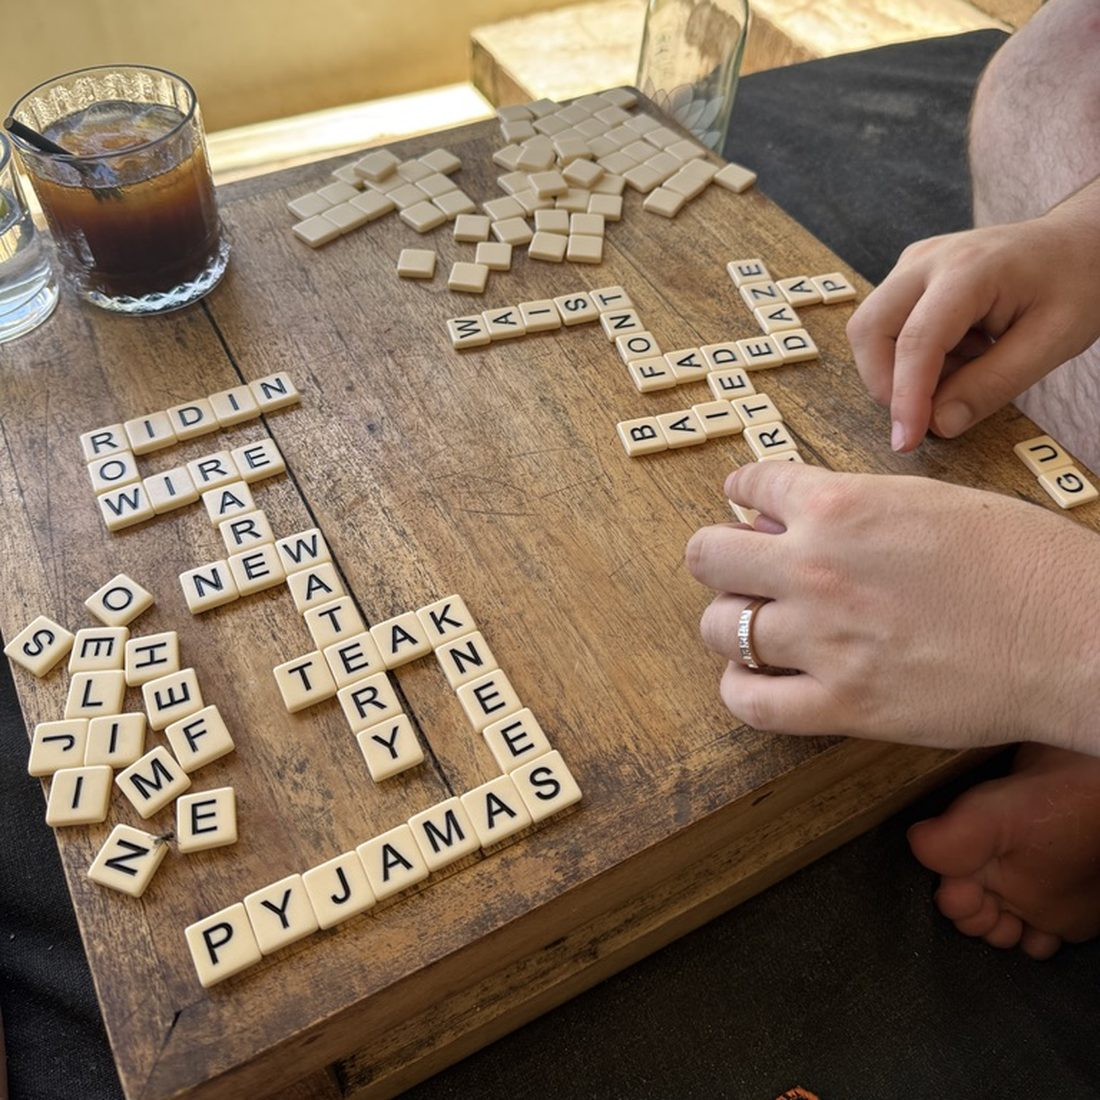
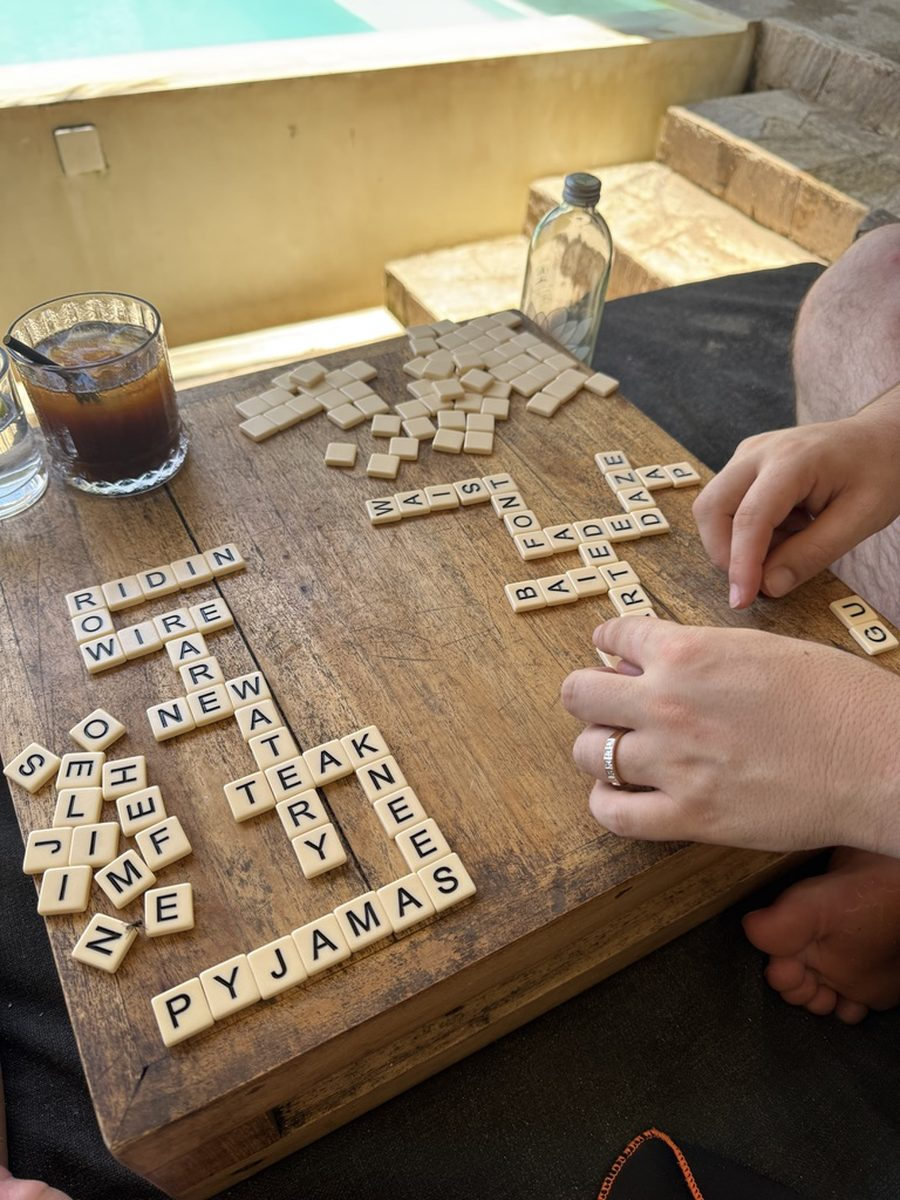
Portrait hover image, month-and-year dates
Hover image is 3:4 and the seven photos so far were re-cut from the
originals at 900x1200, so nothing is cropped to fit. Every phone shot
was already 3:4, so they're now full frame.

Dates drop the day numbers.

Claude-Session: https://claude.ai/code/session_01Nb4hzCfhTbzHu4iTGsTDTM

diff --git a/portfolio-repo/travel.html b/portfolio-repo/travel.html
@@ -156,8 +156,8 @@ body{background:var(--t-bg);color:var(--t-ink);font-family:var(--t-body);}
      in a narrow side panel. */
   display:none;
   position:fixed;top:0;left:0;z-index:60;
-  width:min(300px, 42vw);
-  aspect-ratio:1 / 1;
+  width:min(270px, 38vw);
+  aspect-ratio:3 / 4;
   max-width:100%;
   overflow:hidden;
   background:var(--t-bg);
@@ -243,187 +243,187 @@ body{background:var(--t-bg);color:var(--t-ink);font-family:var(--t-body);}
       </thead>
       <tbody id="trips">
         <tr data-img="assets/travel/colombo.jpg">
-          <td class="t-date">11&ndash;13 MAR 2026</td>
+          <td class="t-date">MAR 2026</td>
           <td><span class="t-place">Colombo</span><span class="t-tag">Sri Lanka &rsquo;26</span></td>
           <td class="t-country">Sri Lanka</td>
           <td class="t-end">+</td>
         </tr>
         <tr data-img="assets/travel/sigiriya.jpg">
-          <td class="t-date">13&ndash;14 MAR 2026</td>
+          <td class="t-date">MAR 2026</td>
           <td><span class="t-place">Sigiriya</span><span class="t-tag">Sri Lanka &rsquo;26</span></td>
           <td class="t-country">Sri Lanka</td>
           <td class="t-end">+</td>
         </tr>
         <tr data-img="assets/travel/kandy.jpg">
-          <td class="t-date">14&ndash;16 MAR 2026</td>
+          <td class="t-date">MAR 2026</td>
           <td><span class="t-place">Kandy</span><span class="t-tag">Sri Lanka &rsquo;26</span></td>
           <td class="t-country">Sri Lanka</td>
           <td class="t-end">+</td>
         </tr>
         <tr data-img="assets/travel/ella.jpg">
-          <td class="t-date">16&ndash;19 MAR 2026</td>
+          <td class="t-date">MAR 2026</td>
           <td><span class="t-place">Ella</span><span class="t-tag">Sri Lanka &rsquo;26</span></td>
           <td class="t-country">Sri Lanka</td>
           <td class="t-end">+</td>
         </tr>
         <tr data-img="assets/travel/yala-national-park.jpg">
-          <td class="t-date">19&ndash;21 MAR 2026</td>
+          <td class="t-date">MAR 2026</td>
           <td><span class="t-place">Yala National Park</span><span class="t-tag">Sri Lanka &rsquo;26</span></td>
           <td class="t-country">Sri Lanka</td>
           <td class="t-end">+</td>
         </tr>
         <tr data-img="assets/travel/hiriketiya.jpg">
-          <td class="t-date">21&ndash;24 MAR 2026</td>
+          <td class="t-date">MAR 2026</td>
           <td><span class="t-place">Hiriketiya</span><span class="t-tag">Sri Lanka &rsquo;26</span></td>
           <td class="t-country">Sri Lanka</td>
           <td class="t-end">+</td>
         </tr>
         <tr data-img="assets/travel/weligama.jpg">
-          <td class="t-date">24&ndash;26 MAR 2026</td>
+          <td class="t-date">MAR 2026</td>
           <td><span class="t-place">Weligama</span><span class="t-tag">Sri Lanka &rsquo;26</span></td>
           <td class="t-country">Sri Lanka</td>
           <td class="t-end">+</td>
         </tr>
         <tr data-img="assets/travel/galle.jpg">
-          <td class="t-date">26&ndash;29 MAR 2026</td>
+          <td class="t-date">MAR 2026</td>
           <td><span class="t-place">Galle</span><span class="t-tag">Sri Lanka &rsquo;26</span></td>
           <td class="t-country">Sri Lanka</td>
           <td class="t-end">+</td>
         </tr>
         <tr data-img="assets/travel/negombo.jpg">
-          <td class="t-date">29&ndash;30 MAR 2026</td>
+          <td class="t-date">MAR 2026</td>
           <td><span class="t-place">Negombo</span><span class="t-tag">Sri Lanka &rsquo;26</span></td>
           <td class="t-country">Sri Lanka</td>
           <td class="t-end">+</td>
         </tr>
         <tr data-img="assets/travel/uluwatu.jpg">
-          <td class="t-date">26 NOV &ndash; 1 DEC 2025</td>
+          <td class="t-date">NOV &ndash; DEC 2025</td>
           <td><span class="t-place">Uluwatu</span><span class="t-tag">Bali &rsquo;25</span></td>
           <td class="t-country">Indonesia</td>
           <td class="t-end">+</td>
         </tr>
         <tr data-img="assets/travel/osaka.jpg">
-          <td class="t-date">22&ndash;25 NOV 2024</td>
+          <td class="t-date">NOV 2024</td>
           <td><span class="t-place">Osaka</span><span class="t-tag">Japan &rsquo;24</span></td>
           <td class="t-country">Japan</td>
           <td class="t-end">+</td>
         </tr>
         <tr data-img="assets/travel/takaragawa-onsen.jpg">
-          <td class="t-date">25&ndash;27 NOV 2024</td>
+          <td class="t-date">NOV 2024</td>
           <td><span class="t-place">Takaragawa Onsen</span><span class="t-tag">Japan &rsquo;24</span></td>
           <td class="t-country">Japan</td>
           <td class="t-end">+</td>
         </tr>
         <tr data-img="assets/travel/tokyo.jpg">
-          <td class="t-date">27 NOV &ndash; 1 DEC 2024</td>
+          <td class="t-date">NOV &ndash; DEC 2024</td>
           <td><span class="t-place">Tokyo</span><span class="t-tag">Japan &rsquo;24</span></td>
           <td class="t-country">Japan</td>
           <td class="t-end">+</td>
         </tr>
         <tr data-img="assets/travel/sapporo.jpg">
-          <td class="t-date">1&ndash;4 DEC 2024</td>
+          <td class="t-date">DEC 2024</td>
           <td><span class="t-place">Sapporo</span><span class="t-tag">Japan &rsquo;24</span></td>
           <td class="t-country">Japan</td>
           <td class="t-end">+</td>
         </tr>
         <tr data-img="assets/niseko.jpg">
-          <td class="t-date">4&ndash;10 DEC 2024</td>
+          <td class="t-date">DEC 2024</td>
           <td><span class="t-place">Niseko</span><span class="t-tag">Japan &rsquo;24</span></td>
           <td class="t-country">Japan</td>
           <td class="t-end">+</td>
         </tr>
         <tr data-img="assets/travel/copenhagen.jpg">
-          <td class="t-date">14&ndash;16 JUN 2023</td>
+          <td class="t-date">JUN 2023</td>
           <td><span class="t-place">Copenhagen</span><span class="t-tag">Europe &rsquo;23</span></td>
           <td class="t-country">Denmark</td>
           <td class="t-end">+</td>
         </tr>
         <tr data-img="assets/travel/berlin.jpg">
-          <td class="t-date">16&ndash;21 JUN 2023</td>
+          <td class="t-date">JUN 2023</td>
           <td><span class="t-place">Berlin</span><span class="t-tag">Europe &rsquo;23</span></td>
           <td class="t-country">Germany</td>
           <td class="t-end">+</td>
         </tr>
         <tr data-img="assets/travel/athens.jpg">
-          <td class="t-date">21&ndash;24 JUN 2023</td>
+          <td class="t-date">JUN 2023</td>
           <td><span class="t-place">Athens</span><span class="t-tag">Europe &rsquo;23</span></td>
           <td class="t-country">Greece</td>
           <td class="t-end">+</td>
         </tr>
         <tr data-img="assets/travel/kioni.jpg">
-          <td class="t-date">24&ndash;28 JUN 2023</td>
+          <td class="t-date">JUN 2023</td>
           <td><span class="t-place">Kioni</span><span class="t-tag">Europe &rsquo;23</span></td>
           <td class="t-country">Greece</td>
           <td class="t-end">+</td>
         </tr>
         <tr data-img="assets/travel/kefalonia.jpg">
-          <td class="t-date">28 JUN 2023</td>
+          <td class="t-date">JUN 2023</td>
           <td><span class="t-place">Kefalonia</span><span class="t-tag">Europe &rsquo;23</span></td>
           <td class="t-country">Greece</td>
           <td class="t-end">+</td>
         </tr>
         <tr data-img="assets/travel/naples.jpg">
-          <td class="t-date">28&ndash;30 JUN 2023</td>
+          <td class="t-date">JUN 2023</td>
           <td><span class="t-place">Naples</span><span class="t-tag">Europe &rsquo;23</span></td>
           <td class="t-country">Italy</td>
           <td class="t-end">+</td>
         </tr>
         <tr data-img="assets/etna.jpg">
-          <td class="t-date">30 JUN &ndash; 3 JUL 2023</td>
+          <td class="t-date">JUN &ndash; JUL 2023</td>
           <td><span class="t-place">Catania</span><span class="t-tag">Europe &rsquo;23</span></td>
           <td class="t-country">Italy</td>
           <td class="t-end">+</td>
         </tr>
         <tr data-img="assets/travel/syracuse.jpg">
-          <td class="t-date">3&ndash;6 JUL 2023</td>
+          <td class="t-date">JUL 2023</td>
           <td><span class="t-place">Syracuse</span><span class="t-tag">Europe &rsquo;23</span></td>
           <td class="t-country">Italy</td>
           <td class="t-end">+</td>
         </tr>
         <tr data-img="assets/travel/palermo.jpg">
-          <td class="t-date">6&ndash;8 JUL 2023</td>
+          <td class="t-date">JUL 2023</td>
           <td><span class="t-place">Palermo</span><span class="t-tag">Europe &rsquo;23</span></td>
           <td class="t-country">Italy</td>
           <td class="t-end">+</td>
         </tr>
         <tr data-img="assets/travel/nice.jpg">
-          <td class="t-date">8&ndash;12 JUL 2023</td>
+          <td class="t-date">JUL 2023</td>
           <td><span class="t-place">Nice</span><span class="t-tag">Europe &rsquo;23</span></td>
           <td class="t-country">France</td>
           <td class="t-end">+</td>
         </tr>
         <tr data-img="assets/travel/saint-paul-de-vence.jpg">
-          <td class="t-date">12&ndash;14 JUL 2023</td>
+          <td class="t-date">JUL 2023</td>
           <td><span class="t-place">Saint-Paul-de-Vence</span><span class="t-tag">Europe &rsquo;23</span></td>
           <td class="t-country">France</td>
           <td class="t-end">+</td>
         </tr>
         <tr data-img="assets/travel/roumoules.jpg">
-          <td class="t-date">14&ndash;17 JUL 2023</td>
+          <td class="t-date">JUL 2023</td>
           <td><span class="t-place">Roumoules</span><span class="t-tag">Europe &rsquo;23</span></td>
           <td class="t-country">France</td>
           <td class="t-end">+</td>
         </tr>
         <tr data-img="assets/travel/paris.jpg">
-          <td class="t-date">17&ndash;23 JUL 2023</td>
+          <td class="t-date">JUL 2023</td>
           <td><span class="t-place">Paris</span><span class="t-tag">Europe &rsquo;23</span></td>
           <td class="t-country">France</td>
           <td class="t-end">+</td>
         </tr>
         <tr data-img="assets/travel/lisbon.jpg">
-          <td class="t-date">23&ndash;27 JUL 2023</td>
+          <td class="t-date">JUL 2023</td>
           <td><span class="t-place">Lisbon</span><span class="t-tag">Europe &rsquo;23</span></td>
           <td class="t-country">Portugal</td>
           <td class="t-end">+</td>
         </tr>
         <tr data-img="assets/travel/porto.jpg">
-          <td class="t-date">27&ndash;30 JUL 2023</td>
+          <td class="t-date">JUL 2023</td>
           <td><span class="t-place">Porto</span><span class="t-tag">Europe &rsquo;23</span></td>
           <td class="t-country">Portugal</td>
           <td class="t-end">+</td>
         </tr>
         <tr data-img="assets/travel/amsterdam.jpg">
-          <td class="t-date">30 JUL &ndash; 7 AUG 2023</td>
+          <td class="t-date">JUL &ndash; AUG 2023</td>
           <td><span class="t-place">Amsterdam</span><span class="t-tag">Europe &rsquo;23</span></td>
           <td class="t-country">Netherlands</td>
           <td class="t-end">+</td>
